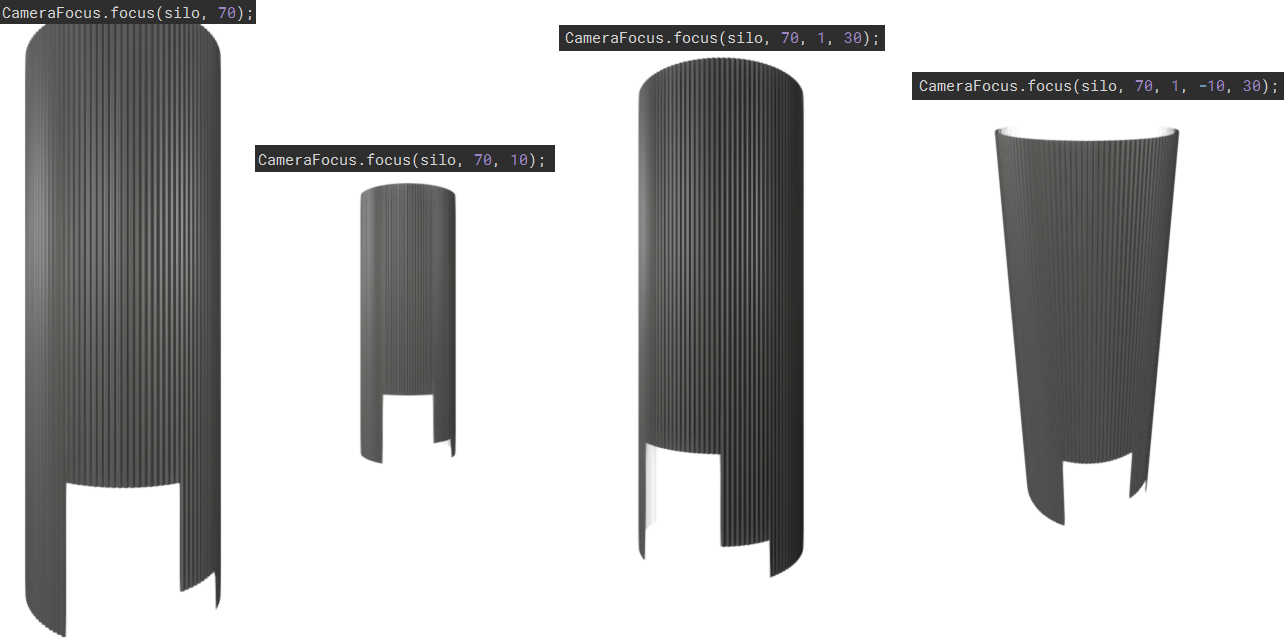
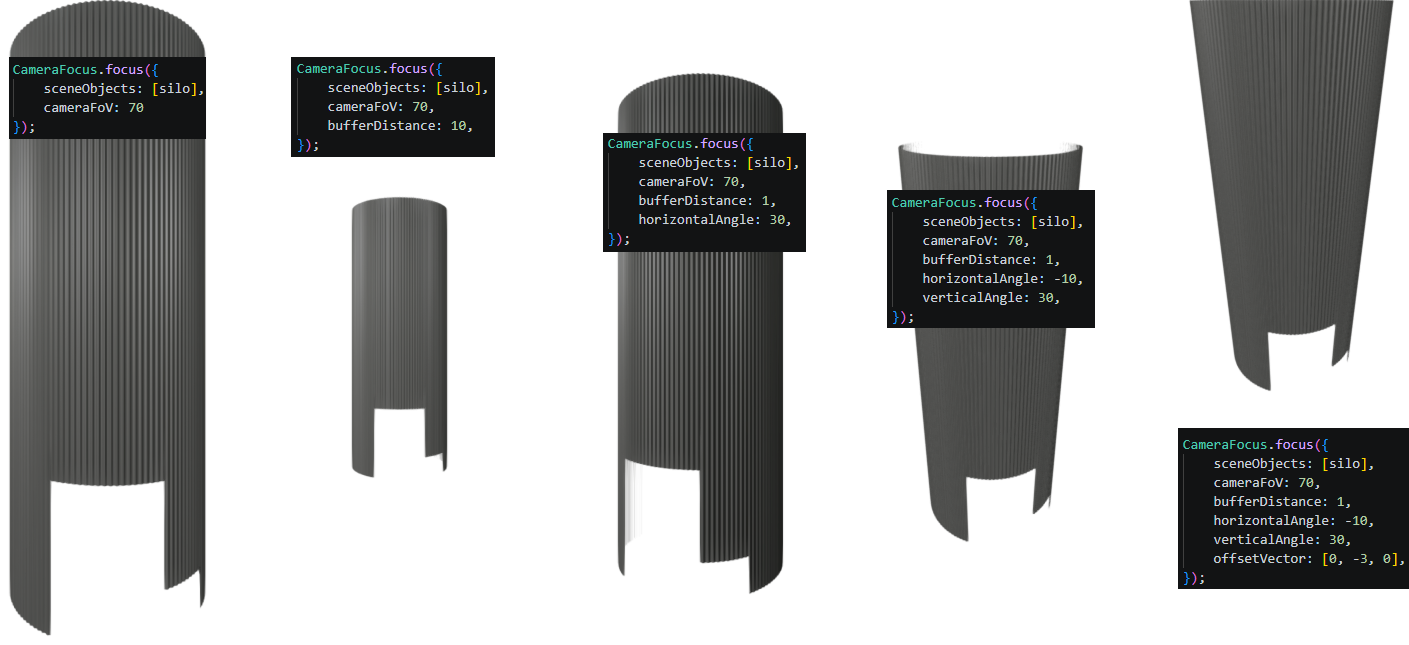
add offsetVector functionality to give finer control of the rotation center to users. Includes breaking changes to function signature.

diff --git a/src/camerafocus/CameraFocus.js b/src/camerafocus/CameraFocus.js
@@ -4,22 +4,29 @@
 export default class CameraFocus {
     /**
      * Focuses the currently active camera to the specified objects with the specified paramaters to control perspective
-     * @param {core.SceneObject[]} sceneObjects - List of sceneObjects that you want to focus on. The rotation center of the camera will be at the center point of the combined axis-aligned bounding boxes of all of these.
-     * @param {Number} cameraFoV - Vertical Field of View angle in degrees of the currently active camera. Required for accurate calculations.
-     * @param {Number} bufferDistance - Optional. Distance in meters that is added to the edges of the resulting image frame. Gives users finer control over the zoom level of the result. Default: 0.
-     * @param {Number} horizontalAngle - Optional. Horizontal angle in degrees counter-clockwise relative to looking down the Z axis. Default: 0.
-     * @param {Number} verticalAngle - Optional. Vertical angle in degrees counter-clockwise relative to looking down the Z axis. Default: 0.
+     * @param {Object} options - Parameter object, supporting the following properties:
+     * {core.SceneObject[]} sceneObjects - Mandatory. List of sceneObjects that you want to focus on. The rotation center of the camera will be at the center point of the combined axis-aligned bounding boxes of all of these.
+     * {Number} cameraFoV - Mandatory. Vertical Field of View angle in degrees of the currently active camera. Required for accurate calculations.
+     * {Number} bufferDistance - Optional. Distance in meters that is added to the edges of the resulting image frame. Gives users finer control over the zoom level of the result. Default: 0.
+     * {Number} horizontalAngle - Optional. Horizontal angle in degrees counter-clockwise relative to looking down the Z axis. Default: 0.
+     * {Number} verticalAngle - Optional. Vertical angle in degrees counter-clockwise relative to looking down the Z axis. Default: 0.
+     * {Number[3]} offsetVector - Optional. Offset vector which is applied to the center point of the camera for finer user control. Default: [0, 0, 0].
      */
-    static focus(sceneObjects, cameraFoV, bufferDistance = 0, horizontalAngle = 0, verticalAngle = 0) {
-        let bb = core.scene.getBoundingBox(sceneObjects);
+    static focus(options) {
+        options = initOptions(options);
+        let bb = core.scene.getBoundingBox(options.sceneObjects);
         let centerPoint = calcCenterPoint(bb);
+        let offsetCenterPoint = centerPoint.slice();
+        offsetCenterPoint[0] += options.offsetVector[0];
+        offsetCenterPoint[1] += options.offsetVector[1];
+        offsetCenterPoint[2] += options.offsetVector[2];
         let xLength = Math.abs(bb.max[0] - bb.min[0]);
         let yLength = Math.abs(bb.max[1] - bb.min[1]);
         let zLength = Math.abs(bb.max[2] - bb.min[2]);
         let maxDimension = Math.max(xLength, yLength, zLength);
 
-        let hRad = horizontalAngle * Math.PI / 180.0;
-        let vRad = verticalAngle * Math.PI / 180.0;
+        let hRad = options.horizontalAngle * Math.PI / 180.0;
+        let vRad = options.verticalAngle * Math.PI / 180.0;
 
         // Unit direction vector from center towards where the camera will end up
         let dx = Math.sin(hRad) * Math.cos(vRad);
@@ -43,8 +50,8 @@ export default class CameraFocus {
         let perpY = Math.abs(ux * xLength) + Math.abs(uy * yLength) + Math.abs(uz * zLength);
         let perpMax = Math.max(perpX, perpY);
 
-        let opposite = (perpMax + bufferDistance) / 2;
-        let relevantFoV = perpMax !== perpY ? calcHorizontalFoV(cameraFoV) : cameraFoV;
+        let opposite = (perpMax + options.bufferDistance) / 2;
+        let relevantFoV = perpMax !== perpY ? calcHorizontalFoV(options.cameraFoV) : options.cameraFoV;
         let halfFoV = relevantFoV / 2;
         let adjacent = opposite / Math.tan(halfFoV * Math.PI / 180.0);
 
@@ -53,7 +60,48 @@ export default class CameraFocus {
         let cameraY = centerPoint[1] + dy * distance;
         let cameraZ = centerPoint[2] + dz * distance;
 
-        core.scene.camera.lookAt(centerPoint, [cameraX, cameraY, cameraZ]);
+        core.scene.camera.lookAt(offsetCenterPoint, [cameraX, cameraY, cameraZ]);
+    }
+}
+
+/**
+ * Checks the options object for minimum parameters and ensures all the options that are optional but not supplied are initialized to their default values
+ * @param options {Object} - Options object
+ * @returns {Object} - Initialized options object
+ */
+function initOptions(options) {
+    checkMinimumOptions(options);
+    const defaultOptions = {
+        bufferDistance: 0,
+        horizontalAngle: 0,
+        verticalAngle: 0,
+        offsetVector: [0, 0, 0],
+    };
+    if (!options)
+        options = {};
+    for (let property in defaultOptions) {
+        if (!defaultOptions.hasOwnProperty(property)) {
+            continue;
+        }
+        if (!options.hasOwnProperty(property)) {
+            options[property] = defaultOptions[property];
+        }
+    }
+
+    return options;
+}
+
+/**
+ * Checks whether the minimum required properties are supplied by the user. Throws an error if they aren't.
+ * @param options {Object} - Options object
+ */
+function checkMinimumOptions(options) {
+    let requiredPropertiesAsArray = ["sceneObjects", "cameraFoV"];
+    for (let propName of requiredPropertiesAsArray) {
+        let value = options[propName];
+        if (!value) {
+            throw new TypeError("Required property \"" + propName + "\" is not defined!");
+        }
     }
 }
 

diff --git a/test/camerafocus/CameraFocus.spec.js b/test/camerafocus/CameraFocus.spec.js
@@ -45,7 +45,7 @@ describe("CameraFocus", () => {
             // perpX=xLen=1, perpY=yLen=1 → perpMax=1 matches perpY → uses vertical FoV
             // halfFoV=45°, adjacent = 0.5/tan(45°) = 0.5, depth=1 → distance = 0.5+0.5 = 1
             currentBB = makeBB([-0.5, -0.5, -0.5], [0.5, 0.5, 0.5]);
-            CameraFocus.focus([], 90);
+            CameraFocus.focus({ sceneObjects: [], cameraFoV: 90 });
 
             expect(lookAtCalls).to.have.length(1);
             const { center, pos } = lookAtCalls[0];
@@ -59,7 +59,7 @@ describe("CameraFocus", () => {
             // bufferDistance=1: opposite=(1+1)/2=1, adjacent=1/tan(45°)=1, depth=1
             // distance = 0.5 + 1 = 1.5
             currentBB = makeBB([-0.5, -0.5, -0.5], [0.5, 0.5, 0.5]);
-            CameraFocus.focus([], 90, 1);
+            CameraFocus.focus({ sceneObjects: [], cameraFoV: 90, bufferDistance: 1 });
 
             const { pos } = lookAtCalls[0];
             expect(pos[2]).to.be.closeTo(1.5, EPSILON);
@@ -67,7 +67,7 @@ describe("CameraFocus", () => {
 
         it("computes center point correctly for an offset bounding box", () => {
             currentBB = makeBB([0, 0, 0], [4, 4, 4]);
-            CameraFocus.focus([], 90);
+            CameraFocus.focus({ sceneObjects: [], cameraFoV: 90 });
 
             const { center } = lookAtCalls[0];
             expect(center).to.deep.equal([2, 2, 2]);
@@ -77,7 +77,7 @@ describe("CameraFocus", () => {
             // dx=1, dy=0, dz≈0; perpX=zLen=1, perpY=yLen=1 → uses vertical FoV
             // depth=xLen=1, distance=1, camera = center + [1,0,0]*1
             currentBB = makeBB([-0.5, -0.5, -0.5], [0.5, 0.5, 0.5]);
-            CameraFocus.focus([], 90, 0, 90);
+            CameraFocus.focus({ sceneObjects: [], cameraFoV: 90, horizontalAngle: 90 });
 
             const { pos } = lookAtCalls[0];
             expect(pos[0]).to.be.closeTo(1, EPSILON);
@@ -87,7 +87,7 @@ describe("CameraFocus", () => {
 
         it("places camera along -X at horizontalAngle=-90", () => {
             currentBB = makeBB([-0.5, -0.5, -0.5], [0.5, 0.5, 0.5]);
-            CameraFocus.focus([], 90, 0, -90);
+            CameraFocus.focus({ sceneObjects: [], cameraFoV: 90, horizontalAngle: -90 });
 
             const { pos } = lookAtCalls[0];
             expect(pos[0]).to.be.closeTo(-1, EPSILON);
@@ -99,7 +99,7 @@ describe("CameraFocus", () => {
             // dy=1/√2, dz=1/√2; perpY=1 > perpX=1/√2 → uses vertical FoV=90
             // depth=√2, opposite=0.5, adjacent=0.5, distance=√2/2+0.5
             currentBB = makeBB([-0.5, -0.5, -0.5], [0.5, 0.5, 0.5]);
-            CameraFocus.focus([], 90, 0, 0, 45);
+            CameraFocus.focus({ sceneObjects: [], cameraFoV: 90, verticalAngle: 45 });
 
             const s = 1 / Math.sqrt(2);
             const expectedDistance = Math.sqrt(2) / 2 + 0.5;
@@ -113,7 +113,7 @@ describe("CameraFocus", () => {
             // Tall box: perpX=xLen=1, perpY=yLen=10 → uses vertical FoV=90
             // opposite=5, adjacent=5/tan(45°)=5, depth=zLen=1 → distance=5.5
             currentBB = makeBB([-0.5, -5, -0.5], [0.5, 5, 0.5]);
-            CameraFocus.focus([], 90);
+            CameraFocus.focus({ sceneObjects: [], cameraFoV: 90 });
 
             const { pos } = lookAtCalls[0];
             expect(pos[2]).to.be.closeTo(5.5, EPSILON);
@@ -126,7 +126,7 @@ describe("CameraFocus", () => {
             // opposite=5, adjacent=5/2=2.5, depth=1 → distance=0.5+2.5=3
             installFakeCore({ width: 2, height: 1 });
             currentBB = makeBB([-5, -0.5, -0.5], [5, 0.5, 0.5]);
-            CameraFocus.focus([], 90);
+            CameraFocus.focus({ sceneObjects: [], cameraFoV: 90 });
 
             const { pos } = lookAtCalls[0];
             expect(pos[2]).to.be.closeTo(3, EPSILON);
@@ -139,14 +139,14 @@ describe("CameraFocus", () => {
                 return makeBB([0, 0, 0], [1, 1, 1]);
             };
             const fakeObjects = [{ id: "A" }, { id: "B" }];
-            CameraFocus.focus(fakeObjects, 90);
+            CameraFocus.focus({ sceneObjects: fakeObjects, cameraFoV: 90 });
 
             expect(receivedObjects).to.equal(fakeObjects);
         });
 
         it("calls lookAt exactly once per focus() invocation", () => {
             currentBB = makeBB([0, 0, 0], [1, 1, 1]);
-            CameraFocus.focus([], 90);
+            CameraFocus.focus({ sceneObjects: [], cameraFoV: 90 });
             expect(lookAtCalls).to.have.length(1);
         });
 
@@ -156,13 +156,45 @@ describe("CameraFocus", () => {
             // depth=xLen=1, perpX=zLen=1, perpY=yLen=1 → distance=1
             // camera = [10.5+1, 20.5, 30.5+≈0]
             currentBB = makeBB([10, 20, 30], [11, 21, 31]);
-            CameraFocus.focus([], 90, 0, 90);
+            CameraFocus.focus({ sceneObjects: [], cameraFoV: 90, horizontalAngle: 90 });
 
             const { center, pos } = lookAtCalls[0];
             expect(center).to.deep.equal([10.5, 20.5, 30.5]);
             expect(pos[0]).to.be.closeTo(11.5, EPSILON);
             expect(pos[1]).to.be.closeTo(20.5, EPSILON);
             expect(pos[2]).to.be.closeTo(30.5, EPSILON);
+        });
+
+        it("shifts the lookAt center by offsetVector without affecting camera position", () => {
+            currentBB = makeBB([-0.5, -0.5, -0.5], [0.5, 0.5, 0.5]);
+            CameraFocus.focus({ sceneObjects: [], cameraFoV: 90, offsetVector: [1, 2, 3] });
+
+            const { center, pos } = lookAtCalls[0];
+            expect(center[0]).to.be.closeTo(1, EPSILON);
+            expect(center[1]).to.be.closeTo(2, EPSILON);
+            expect(center[2]).to.be.closeTo(3, EPSILON);
+            // Camera position is calculated from the unshifted bounding-box center
+            expect(pos[0]).to.be.closeTo(0, EPSILON);
+            expect(pos[1]).to.be.closeTo(0, EPSILON);
+            expect(pos[2]).to.be.closeTo(1, EPSILON);
+        });
+
+        it("defaults offsetVector to [0,0,0] when not provided", () => {
+            currentBB = makeBB([-0.5, -0.5, -0.5], [0.5, 0.5, 0.5]);
+            CameraFocus.focus({ sceneObjects: [], cameraFoV: 90 });
+
+            const { center } = lookAtCalls[0];
+            expect(center).to.deep.equal([0, 0, 0]);
+        });
+
+        it("throws TypeError when sceneObjects is missing", () => {
+            currentBB = makeBB([0, 0, 0], [1, 1, 1]);
+            expect(() => CameraFocus.focus({ cameraFoV: 90 })).to.throw(TypeError, /sceneObjects/);
+        });
+
+        it("throws TypeError when cameraFoV is missing", () => {
+            currentBB = makeBB([0, 0, 0], [1, 1, 1]);
+            expect(() => CameraFocus.focus({ sceneObjects: [] })).to.throw(TypeError, /cameraFoV/);
         });
     });
 });

diff --git a/docs/camerafocus/README.md b/docs/camerafocus/README.md
@@ -15,21 +15,26 @@ in [src/camerafocus/CameraFocus.js](src/camerafocus/CameraFocus.js).
 import { CameraFocus } from "./VisLogicUtilities/src/camerafocus/CameraFocus.js";
 //use
 let myObj = core.scene.create(core.assets("some/asset"));
-CameraFocus.focus([myObj], 70); //minimal parameters
-CameraFocus.focus([myObj], 70, 3, 20, 10); //minimal parameters. 3 Meters buffer distance, 20° horizontal angle, 10° vertical angle
+CameraFocus.focus({ sceneObjects: [myObj], cameraFoV: 70 }); //minimal parameters
+CameraFocus.focus({ sceneObjects: [myObj], cameraFoV: 70, bufferDistance: 3, horizontalAngle: 20, verticalAngle: 10 }); //with optional parameters
+CameraFocus.focus({ sceneObjects: [myObj], cameraFoV: 70, offsetVector: [0, 1, 0] }); //shift the rotation center upward by 1 meter
 ```
 
 ## Public Functions
 These are the supported public functions you can use in your code.
 
-### focus(sceneObjects, cameraFoV, bufferDistance, horizontalAngle, verticalAngle)
-Focuses the camera on the specified scene objects. This will perform a core.scene.camera.lookAt() with the center point being the center of the combined bounding boxes of all specified scene objects. The camera position will be calculated based on the other parameters.
+### focus(options)
+Focuses the camera on the specified scene objects. This will perform a `core.scene.camera.lookAt()` with the rotation center being the center of the combined bounding boxes of all specified scene objects (shifted by `offsetVector` if provided). The camera position is calculated from the remaining parameters.
 
 **Parameters**
-| Name | Type | Description | Default |
-| ---- | ---- | ---- | ---- |
-| `sceneObjects` | `core.SceneObject[]` | List of sceneObjects that you want to focus on. The rotation center of the camera will be at the center point of the combined axis-aligned bounding boxes of all of these. | |
-| `cameraFoV` | `Number` | Vertical Field of View angle in degrees of the currently active camera. Required for accurate calculations. | |
-| `bufferDistance` | `Number` | Optional. Distance in meters that is added to the edges of the resulting frame. Gives users finer control over the zoom level of the result. | `0`|
-| `horizontalAngle` | `Number` | Optional. Horizontal angle in degrees counter-clockwise relative to looking down the Z axis. | `0`|
-| `verticalAngle` | `Number` | Optional. Vertical angle in degrees counter-clockwise relative to looking down the Z axis. | `0`|
+
+`options` is a plain object with the following properties:
+
+| Name | Type | Required | Description | Default |
+| ---- | ---- | ---- | ---- | ---- |
+| `sceneObjects` | `core.SceneObject[]` | yes | List of sceneObjects to focus on. The rotation center of the camera will be at the center point of the combined axis-aligned bounding boxes of all of these. | |
+| `cameraFoV` | `Number` | yes | Vertical Field of View angle in degrees of the currently active camera. Required for accurate calculations. | |
+| `bufferDistance` | `Number` | no | Distance in meters added to the edges of the resulting frame. Gives finer control over the zoom level of the result. | `0` |
+| `horizontalAngle` | `Number` | no | Horizontal angle in degrees counter-clockwise relative to looking down the Z axis. | `0` |
+| `verticalAngle` | `Number` | no | Vertical angle in degrees counter-clockwise relative to looking down the Z axis. | `0` |
+| `offsetVector` | `Number[3]` | no | XYZ offset applied to the bounding-box center point before passing it as the rotation center to `lookAt`. Does not affect the computed camera position. | `[0, 0, 0]` |